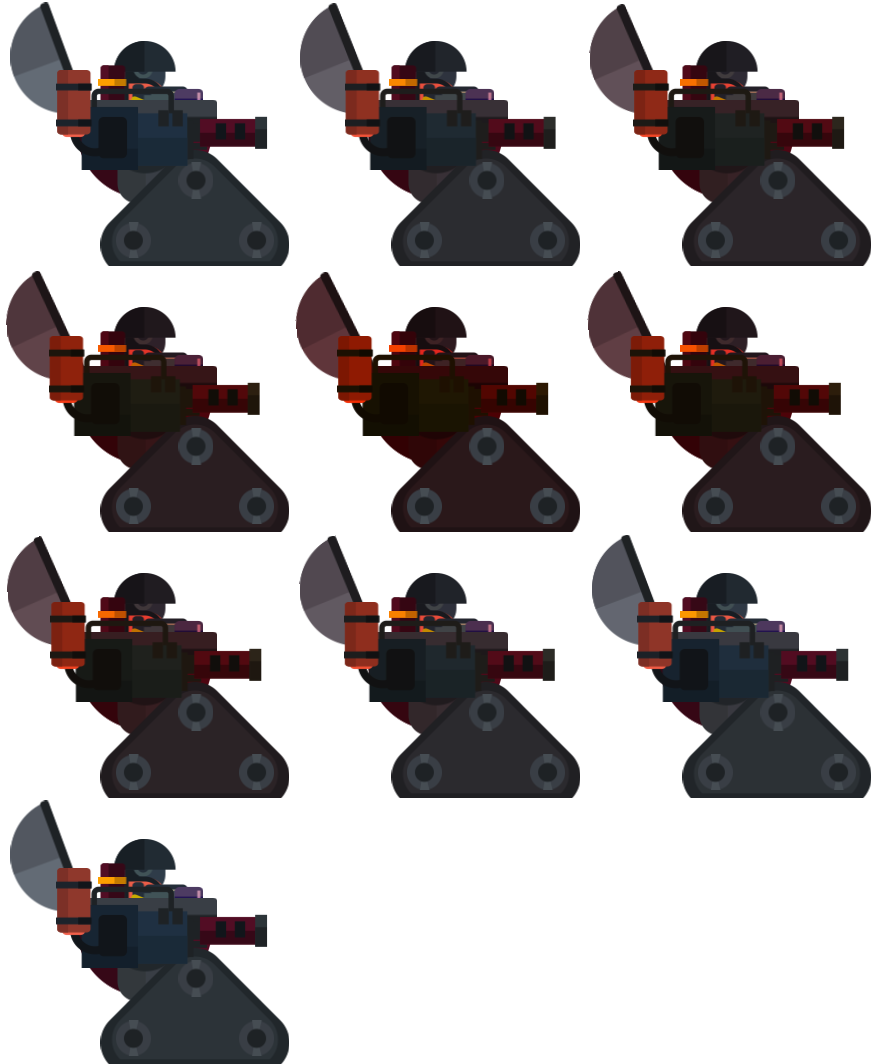
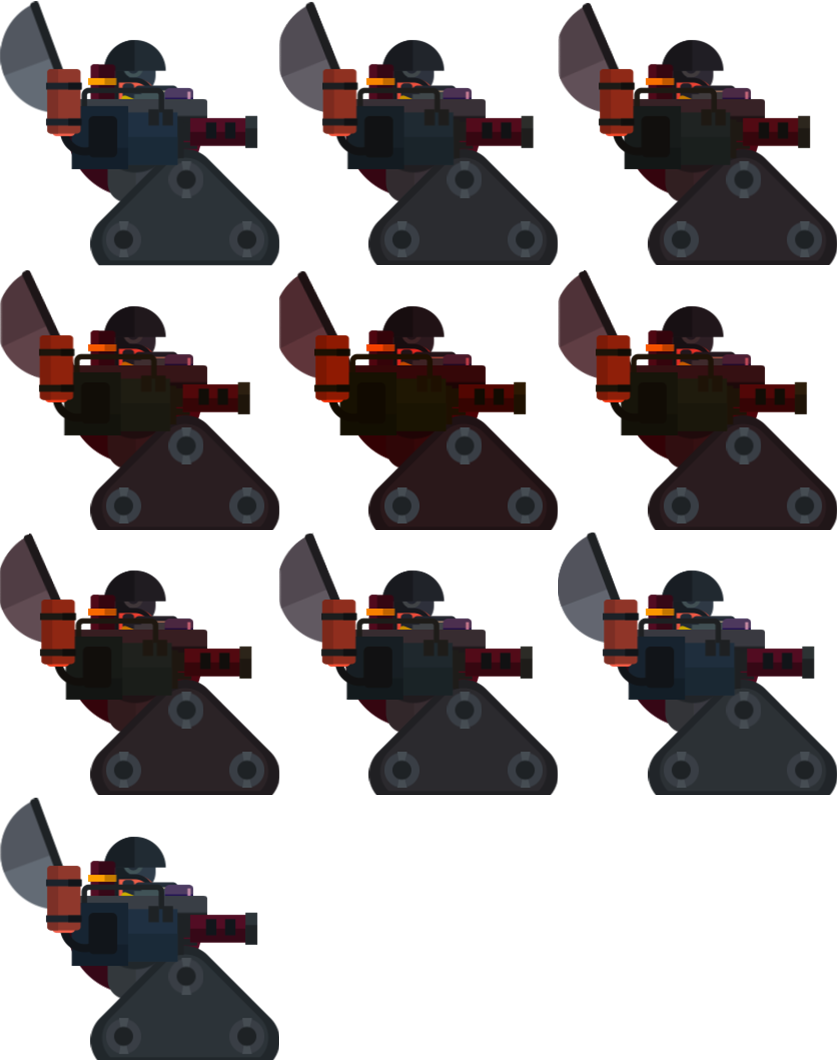
Added Shooting Animation
Player not does shooting animation when shooting button is clicked

diff --git a/core/src/com/mygdx/game/Player.java b/core/src/com/mygdx/game/Player.java
@@ -2,16 +2,12 @@ package com.mygdx.game;
 
 import com.badlogic.gdx.Gdx;
 import com.badlogic.gdx.graphics.Texture;
-import com.badlogic.gdx.graphics.TextureData;
 import com.badlogic.gdx.graphics.g2d.Animation;
 import com.badlogic.gdx.graphics.g2d.Sprite;
-import com.badlogic.gdx.graphics.g2d.SpriteBatch;
 import com.badlogic.gdx.graphics.g2d.TextureRegion;
-import com.badlogic.gdx.maps.MapLayer;
 import com.badlogic.gdx.maps.tiled.TiledMapTileLayer;
 import com.badlogic.gdx.math.Rectangle;
 import com.badlogic.gdx.math.Vector2;
-import com.badlogic.gdx.scenes.scene2d.ui.Cell;
 
 import org.w3c.dom.Text;
 
@@ -23,6 +19,7 @@ public class Player {
     private static float CONSTANT_SPEED = 150.0f;
     private static final float GRAVITY = 70f;
 
+    boolean isShooting;
     boolean canJump;
     boolean playerAlive;
 
@@ -34,13 +31,19 @@ public class Player {
     Vector2 playerDelta;
     Rectangle playerDeltaRectangle;
 
+    //Player - Walking
     Texture playerWalkingTexture;
     private TextureRegion[] playerWalkingFrames;
     private Animation playerWalkingAnimation;
-
+    //Dying
     Texture playerDyingTexture;
-    private TextureRegion[] playerdyingFrames;
+    private TextureRegion[] playerDyingFrames;
     private Animation playerDyingAnimation;
+    //Shooting
+    Texture playerShootingTexture;
+    Texture playerBullet;
+    private TextureRegion[] playerShootingFrames;
+    private Animation playerShootingAnimation;
 
     //Game Clock
     float dt;
@@ -54,38 +57,58 @@ public class Player {
         playerDelta = new Vector2();
         playerDeltaRectangle = new Rectangle(playerSprite.getX(), playerSprite.getY(), playerSprite.getWidth(), playerSprite.getHeight());
 
-        //Player Walking Texture Build
-        int walkingFrameCol = 3;
-        int WalkingFrameRow = 6;
+        //Player Walking Texture and Animation Build
+        int FrameCol = 3;
+        int FrameRow = 6;
         playerWalkingTexture = new Texture("player/moving.png");
-        TextureRegion[][] walkTemp = TextureRegion.split(playerWalkingTexture, playerWalkingTexture.getWidth() / walkingFrameCol, playerWalkingTexture.getHeight() / WalkingFrameRow);
-        playerWalkingFrames = new TextureRegion[walkingFrameCol * WalkingFrameRow];
+        TextureRegion[][] walkTemp = TextureRegion.split(playerWalkingTexture, playerWalkingTexture.getWidth() / FrameCol,
+                playerWalkingTexture.getHeight() / FrameRow);
+        playerWalkingFrames = new TextureRegion[FrameCol * FrameRow];
         int index = 0;
-        for (int i = 0; i < WalkingFrameRow; i++) {
-            for (int j = 0; j < walkingFrameCol; j++) {
+        for (int i = 0; i < FrameRow; i++) {
+            for (int j = 0; j < FrameCol; j++) {
                 playerWalkingFrames[index++] = walkTemp[i][j];
             }
         }
         playerWalkingAnimation = new Animation(1f/30f, playerWalkingFrames);
 
-        //Player dying texture build
-        int dyingFrameCol = 5;
-        int dyingFrameRow = 4;
+        //Player Dying Texture and Animation Build
+        FrameCol = 5;
+        FrameRow = 4;
         playerDyingTexture = new Texture("player/dying.png");
-        TextureRegion[][] dyingTemp = TextureRegion.split(playerDyingTexture, playerDyingTexture.getWidth() / dyingFrameCol, playerDyingTexture.getHeight() / dyingFrameRow);
-        playerdyingFrames = new TextureRegion[(dyingFrameCol * dyingFrameRow) - 2];
+        TextureRegion[][] dyingTemp = TextureRegion.split(playerDyingTexture, playerDyingTexture.getWidth() / FrameCol,
+                playerDyingTexture.getHeight() / FrameRow);
+        playerDyingFrames = new TextureRegion[(FrameCol * FrameRow) - 2];
         index = 0;
-        for (int i = 0; i < dyingFrameRow; i++) {
-            for (int j = 0; j < dyingFrameCol; j++) {
+        for (int i = 0; i < FrameRow; i++) {
+            for (int j = 0; j < FrameCol; j++) {
                 if(index < 18) {
-                    playerdyingFrames[index++] = dyingTemp[i][j];
+                    playerDyingFrames[index++] = dyingTemp[i][j];
                 }
             }
         }
-        playerDyingAnimation = new Animation(0.033f, playerdyingFrames);
+        playerDyingAnimation = new Animation(1f/30f, playerDyingFrames);
+
+        //player shooting Texture and Animation Build
+        FrameCol = 3;
+        FrameRow = 4;
+        playerShootingTexture = new Texture("player/shooting.png");
+        TextureRegion[][] shootingTemp = TextureRegion.split(playerShootingTexture, playerShootingTexture.getWidth() / FrameCol,
+                playerShootingTexture.getHeight() / FrameRow);
+        playerShootingFrames = new TextureRegion[(FrameCol * FrameRow) - 2];
+        index = 0;
+        for (int i = 0; i < FrameRow; i++) {
+            for (int j = 0; j < FrameCol; j++) {
+                if(index < 10) {
+                    playerShootingFrames[index++] = shootingTemp[i][j];
+                }
+            }
+        }
+        playerShootingAnimation = new Animation (1f/30f, playerShootingFrames);
 
         updateCurrentPlayerState();
 
+        isShooting = false;
         canJump = false;
         playerAlive = true;
         dt = 0.0f;
@@ -101,6 +124,7 @@ public class Player {
         switch (currentPlayerState) {
             case RUNNING:
                 currentFrame = (TextureRegion) playerWalkingAnimation.getKeyFrame(stateTime, true);
+                playerSprite.setRegion(currentFrame);
                 break;
 
             case DYING:
@@ -116,7 +140,12 @@ public class Player {
                 break;
 
             case SHOOTING:
-
+                currentFrame = (TextureRegion) playerShootingAnimation.getKeyFrame(stateTime, true);
+                playerSprite.setRegion(currentFrame);
+                if(playerShootingAnimation.isAnimationFinished(stateTime)) {
+                    currentPlayerState = PlayerState.RUNNING;
+                    isShooting = false;
+                };
                 break;
 
         }
@@ -139,6 +168,7 @@ public class Player {
         if(collidesBottom(collisionLayer)) {
             if(y == 1 && currentPlayerState != PlayerState.DEAD && currentPlayerState != PlayerState.DYING) {
                 //Mario Style arc jump
+                stateTime = 0f;
                 this.playerDelta.y = (playerSprite.getY() - this.playerDelta.y * dt) / 2;
             } else {
                 this.playerDelta.y = ((y * MOVEMENT_SPEED * dt));
@@ -167,6 +197,13 @@ public class Player {
             }
         }
         return false;
+    }
+
+    public void shoot() {
+        if(isShooting) return;
+        stateTime = 0f;
+        currentPlayerState = PlayerState.SHOOTING;
+        isShooting = true;
     }
 
     //Getters and Setters

diff --git a/core/src/com/mygdx/game/MyGdxGame.java b/core/src/com/mygdx/game/MyGdxGame.java
@@ -186,7 +186,7 @@ public class MyGdxGame extends ApplicationAdapter {
 				}
 				if (Gdx.input.isKeyPressed(Input.Keys.SPACE) || shootButton.isDown) {
 					shootButton.isDown = true;
-					isShoot = true;
+					player.shoot();
 				}
 
 				//If player gets to end of map
